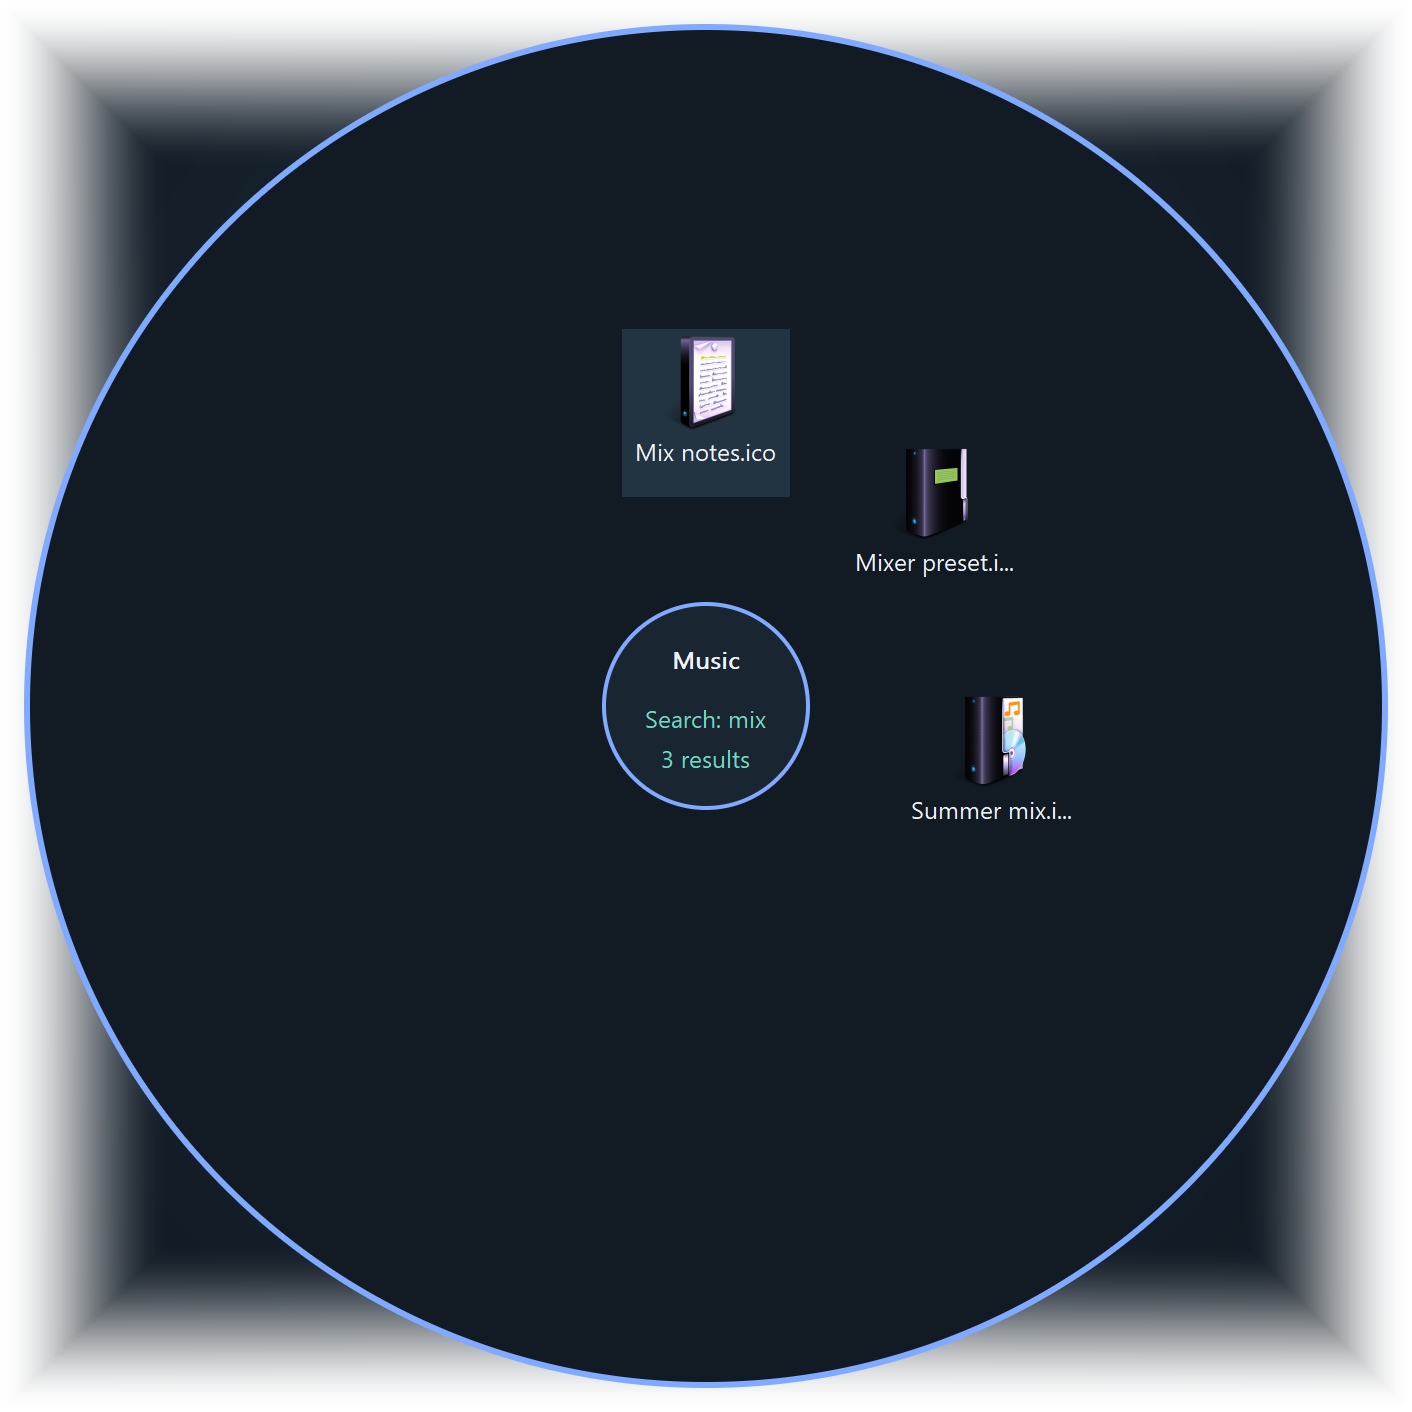
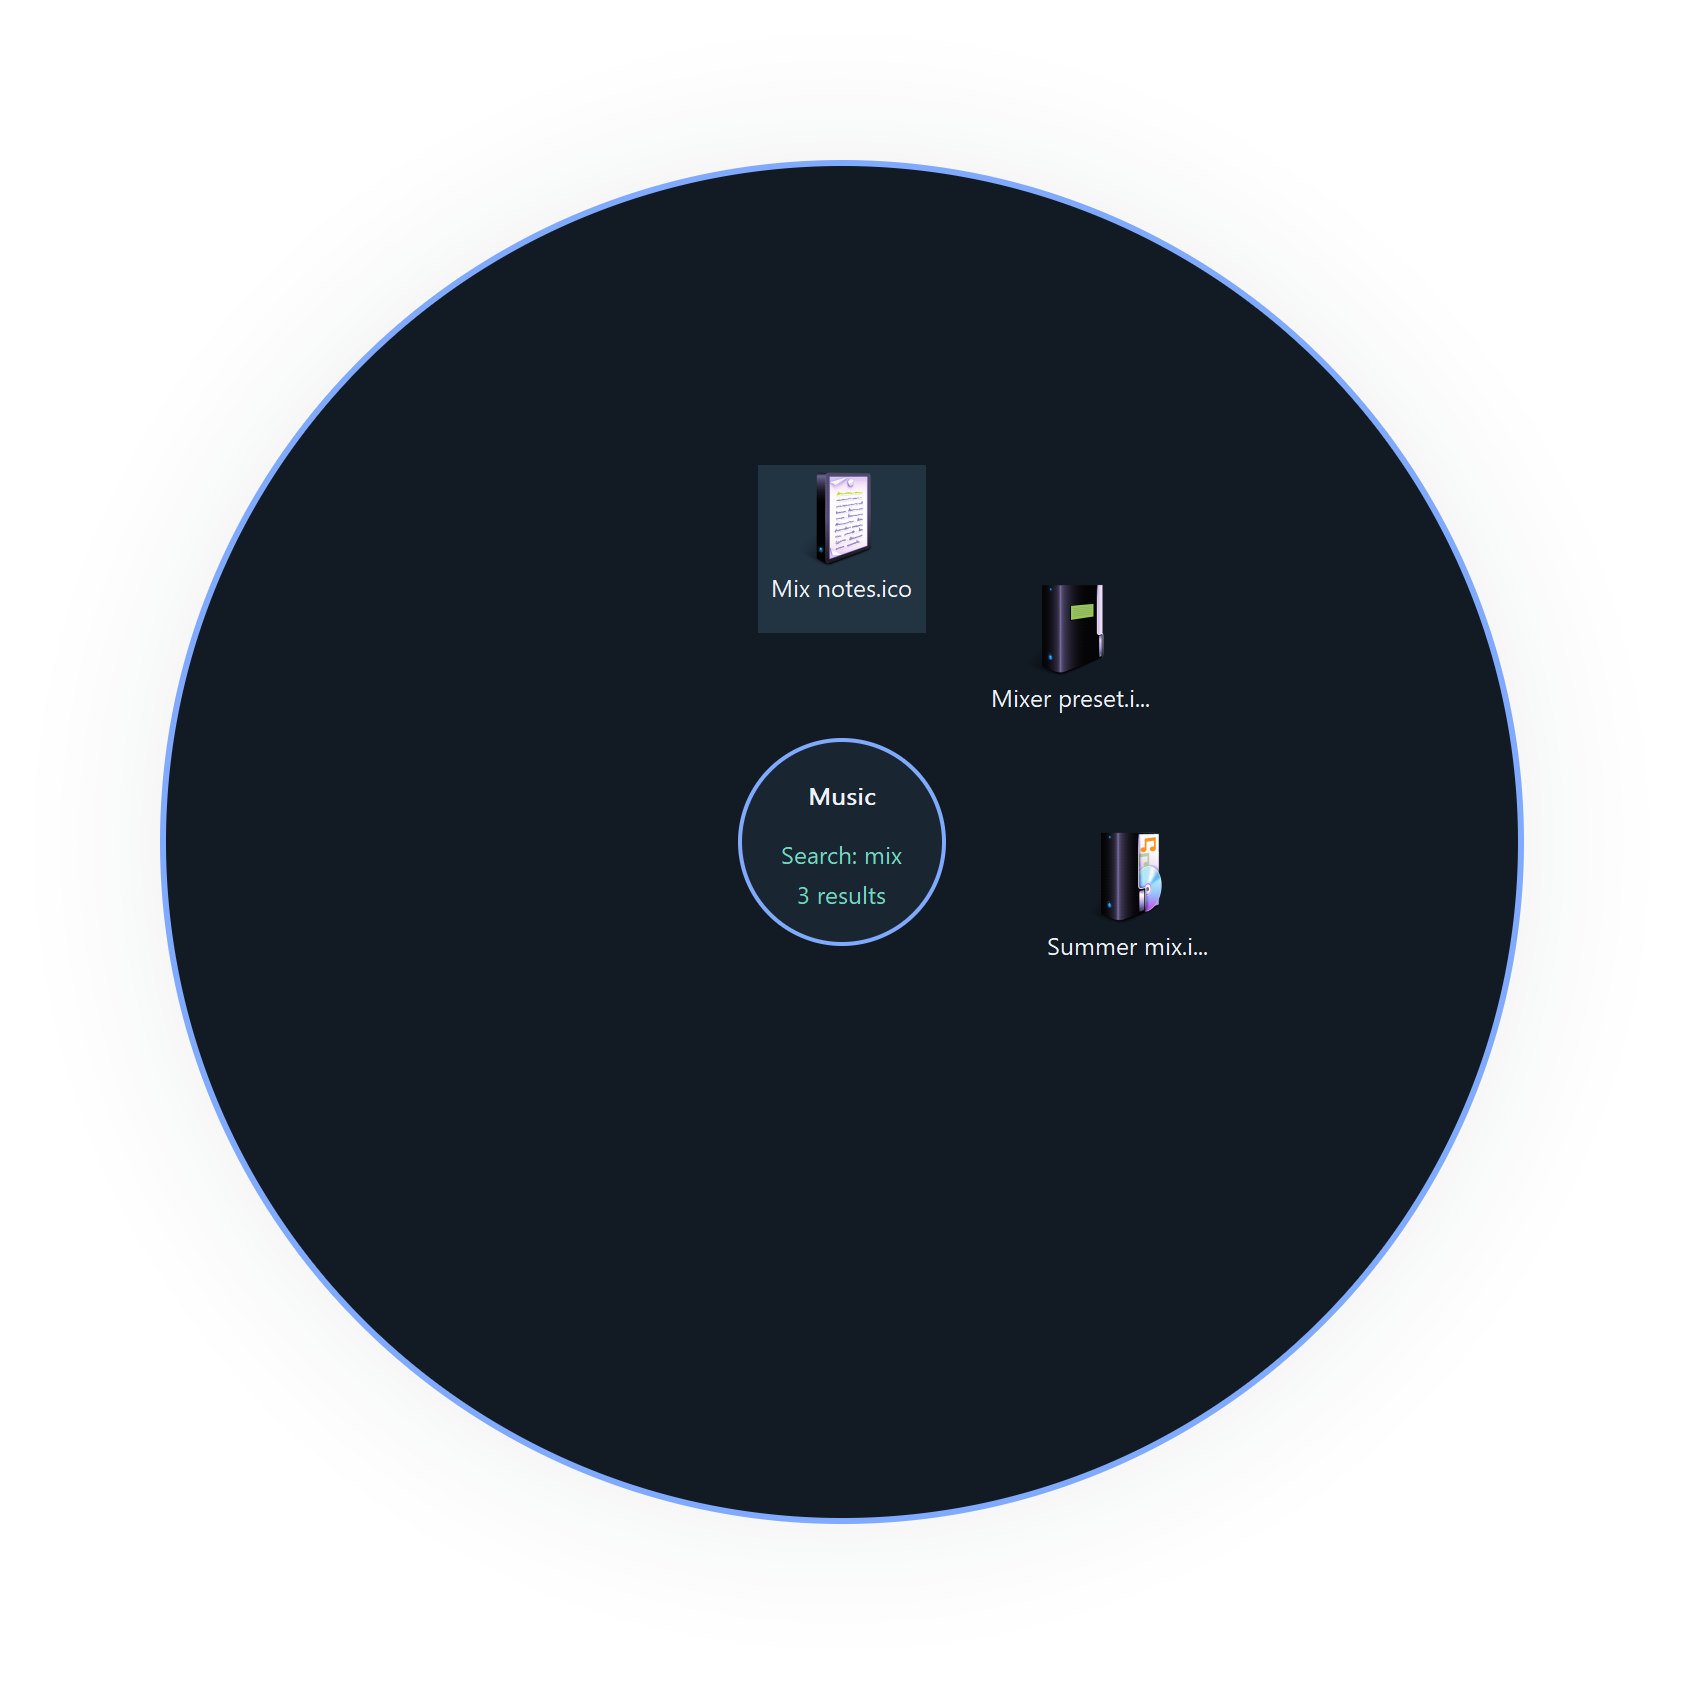
Soften README shadows on light backgrounds [skip ci]
Replace rectangular edge fades with a low-opacity oval shadow and transparent breathing room. Inspect native media composites on white and dark backgrounds; app testing remains deferred.

Plan: docs/superpowers/plans/2026-10-13-phase2-d-circles.md Task D62

diff --git a/docs/media/native_export.rs b/docs/media/native_export.rs
@@ -49,15 +49,17 @@ fn docs_native_export() {
     );
     let side = ring.w as usize;
     geom::mask_disc(ring.pixels(), side, side, m.ring_r as f32);
-    let (w, h) = (2160usize, 1600usize);
+    // Breathing room lets the oval shadow finish before the image boundary.
+    let pad = 160;
+    let (w, h) = (2160usize + pad * 2, 1600usize + pad * 2);
     let mut canvas = backdrop(w, h);
-    composite(&mut canvas, w, h, &mut ring, 180, 120);
+    composite(&mut canvas, w, h, &mut ring, 180 + pad, 120 + pad);
     let mut circle = Surface::new(m.circle_d, m.circle_d).expect("circle surface");
     for (x, y, label, count) in [(36, 120, "Recent", 12), (60, 1210, "Apps", 5)] {
         draw::circle(&mut circle, dpi, label, count, false);
         let d = circle.w as usize;
         geom::mask_disc(circle.pixels(), d, d, d as f32 / 2.0);
-        composite(&mut canvas, w, h, &mut circle, x, y);
+        composite(&mut canvas, w, h, &mut circle, x + pad, y + pad);
     }
     let entries = vec![
         (Entry::Target(Which::Recent), "Recent".into()),
@@ -75,7 +77,7 @@ fn docs_native_export() {
     for pixel in dock.pixels() {
         *pixel |= 0xff000000;
     }
-    composite(&mut canvas, w, h, &mut dock, 1776, 420);
+    composite(&mut canvas, w, h, &mut dock, 1776 + pad, 420 + pad);
     save_bgra(&output.join("desktop-overview.bgra"), &canvas);
 
     let filtered = &views[..3];
@@ -94,10 +96,11 @@ fn docs_native_export() {
         },
     );
     geom::mask_disc(ring.pixels(), side, side, m.ring_r as f32);
-    let mut search = backdrop(side + 48, side + 48);
-    composite(&mut search, side + 48, side + 48, &mut ring, 24, 24);
+    let search_side = side + pad * 2;
+    let mut search = backdrop(search_side, search_side);
+    composite(&mut search, search_side, search_side, &mut ring, pad, pad);
     save_bgra(&output.join("search-results.bgra"), &search);
-    std::fs::write(output.join("sizes.txt"), format!("desktop-overview {w} {h}\nsearch-results {} {}\n", side + 48, side + 48))
+    std::fs::write(output.join("sizes.txt"), format!("desktop-overview {w} {h}\nsearch-results {search_side} {search_side}\n"))
         .expect("size manifest");
     drop(views);
     drop(icons);
@@ -160,14 +163,13 @@ fn backdrop(w: usize, h: usize) -> Vec<u32> {
     let mut pixels = Vec::with_capacity(w * h);
     for y in 0..h {
         for x in 0..w {
-            let dx = (x as f32 / w as f32 - 0.48) / 0.9;
-            let dy = (y as f32 / h as f32 - 0.44) / 1.0;
-            let amount = (1.0 - (dx * dx + dy * dy).sqrt()).clamp(0.0, 1.0);
-            // Smoothly disappear into any README theme at every canvas edge.
-            let edge = (x.min(w - 1 - x) as f32 / (w as f32 * 0.12)).min(y.min(h - 1 - y) as f32 / (h as f32 * 0.12)).clamp(0.0, 1.0);
-            let alpha = (255.0 * edge * edge * (3.0 - 2.0 * edge)).round() as u32;
-            let channel = |a: f32, b: f32| (a + (b - a) * amount).round() as u32;
-            pixels.push(alpha << 24 | channel(12.0, 27.0) << 16 | channel(18.0, 43.0) << 8 | channel(25.0, 57.0));
+            let dx = 2.0 * x as f32 / (w - 1) as f32 - 1.0;
+            let dy = 2.0 * y as f32 / (h - 1) as f32 - 1.0;
+            // A single low-opacity ellipse: no nearest-edge/minimum operation,
+            // rectangular plateau or diagonal seams on a white README page.
+            let falloff = (1.0 - dx * dx - dy * dy).max(0.0);
+            let alpha = (80.0 * falloff * falloff).round() as u32;
+            pixels.push(alpha << 24 | 0x121b24);
         }
     }
     pixels

diff --git a/docs/superpowers/plans/2026-10-13-phase2-d-circles.md b/docs/superpowers/plans/2026-10-13-phase2-d-circles.md
@@ -1799,3 +1799,20 @@ GitHub guide on a phone. GitHub Markdown does not provide custom responsive CSS.
 Documentation-only change; no application build, regression tests or installed
 app changes. Source checks confirm 24 topic headings, no table markup and all
 original topic titles/bodies retained. Actual phone rendering is owner acceptance.
+
+
+### D62: Remove rectangular fade seams on light README pages
+
+Owner's phone capture shows D60's nearest-edge fade making diagonal corner seams
+and a heavy rectangular frame on white. Owner authorizes the suggested oval shadow.
+
+- [x] Replace edge-based opacity with one low-opacity elliptical radial falloff.
+- [x] Add transparent breathing room around the unchanged native UI composition.
+- [x] Regenerate both PNGs and inspect side-by-side composites on white and #0d1117
+  backgrounds at phone-like widths; rectangular seams are absent.
+- [x] Run fmt, standard release Clippy, targeted media export and diff checks;
+  document the change and commit/push.
+
+Only the ignored documentation exporter ran (78 other tests filtered out). No
+application regression/input tests or installed app/installer changes. Local
+preview is target/d58-media/theme-preview.png (not a tracked README asset).

diff --git a/docs/media/README.md b/docs/media/README.md
@@ -11,9 +11,10 @@ offscreen client export. The square client outline is retained rather than inven
 a different rounded window. Fonts depend on the exporting Windows installation and text settings. The native
 ICO loader supplies the licensed example icons at the actual display size.
 
-The presentation background uses the earlier subtle slate/blue radial gradient,
-with a smooth alpha fade to full transparency at all four edges so it blends into
-the README viewer's background in either theme.
+The presentation background is a low-opacity slate oval shadow with a smooth
+radial fade and transparent padding. It has no rectangular edge bands or corner
+seams. Native exports were composited over white and GitHub-dark backgrounds
+for visual inspection; the native UI itself remains opaque.
 It sits behind the native UI and does not change native surface colors or corners.
 Icon credit: 3D BlueFX Desktop by [WallpaperFX](https://wallpaperfx.com/),
 [CC BY 4.0](https://creativecommons.org/licenses/by/4.0/). See [asset provenance](icons/README.md).

diff --git a/docs/superpowers/plans/CONTEXT.md b/docs/superpowers/plans/CONTEXT.md
@@ -4,7 +4,7 @@ Keep this guide under 100 lines. Live Git/CI outrank snapshots.
 - Inspect `git status --short --branch` and `git worktree list`.
 - Main is the integration baseline; owner permits direct main commits/pushes.
   Do not open/reopen PRs unless requested. Preserve task-by-task commits/checks.
-- A and D through D61 implemented; guide uses full-width TR/EN sections for mobile.
+- A and D through D62 implemented; README uses soft oval shadows in both themes.
   D56 scoped D55 review found no blocker; final automated/install checks pending.
 - Owner requires circles and open rings always topmost, including Show Desktop.
 ## Delivered behavior and latest changes
